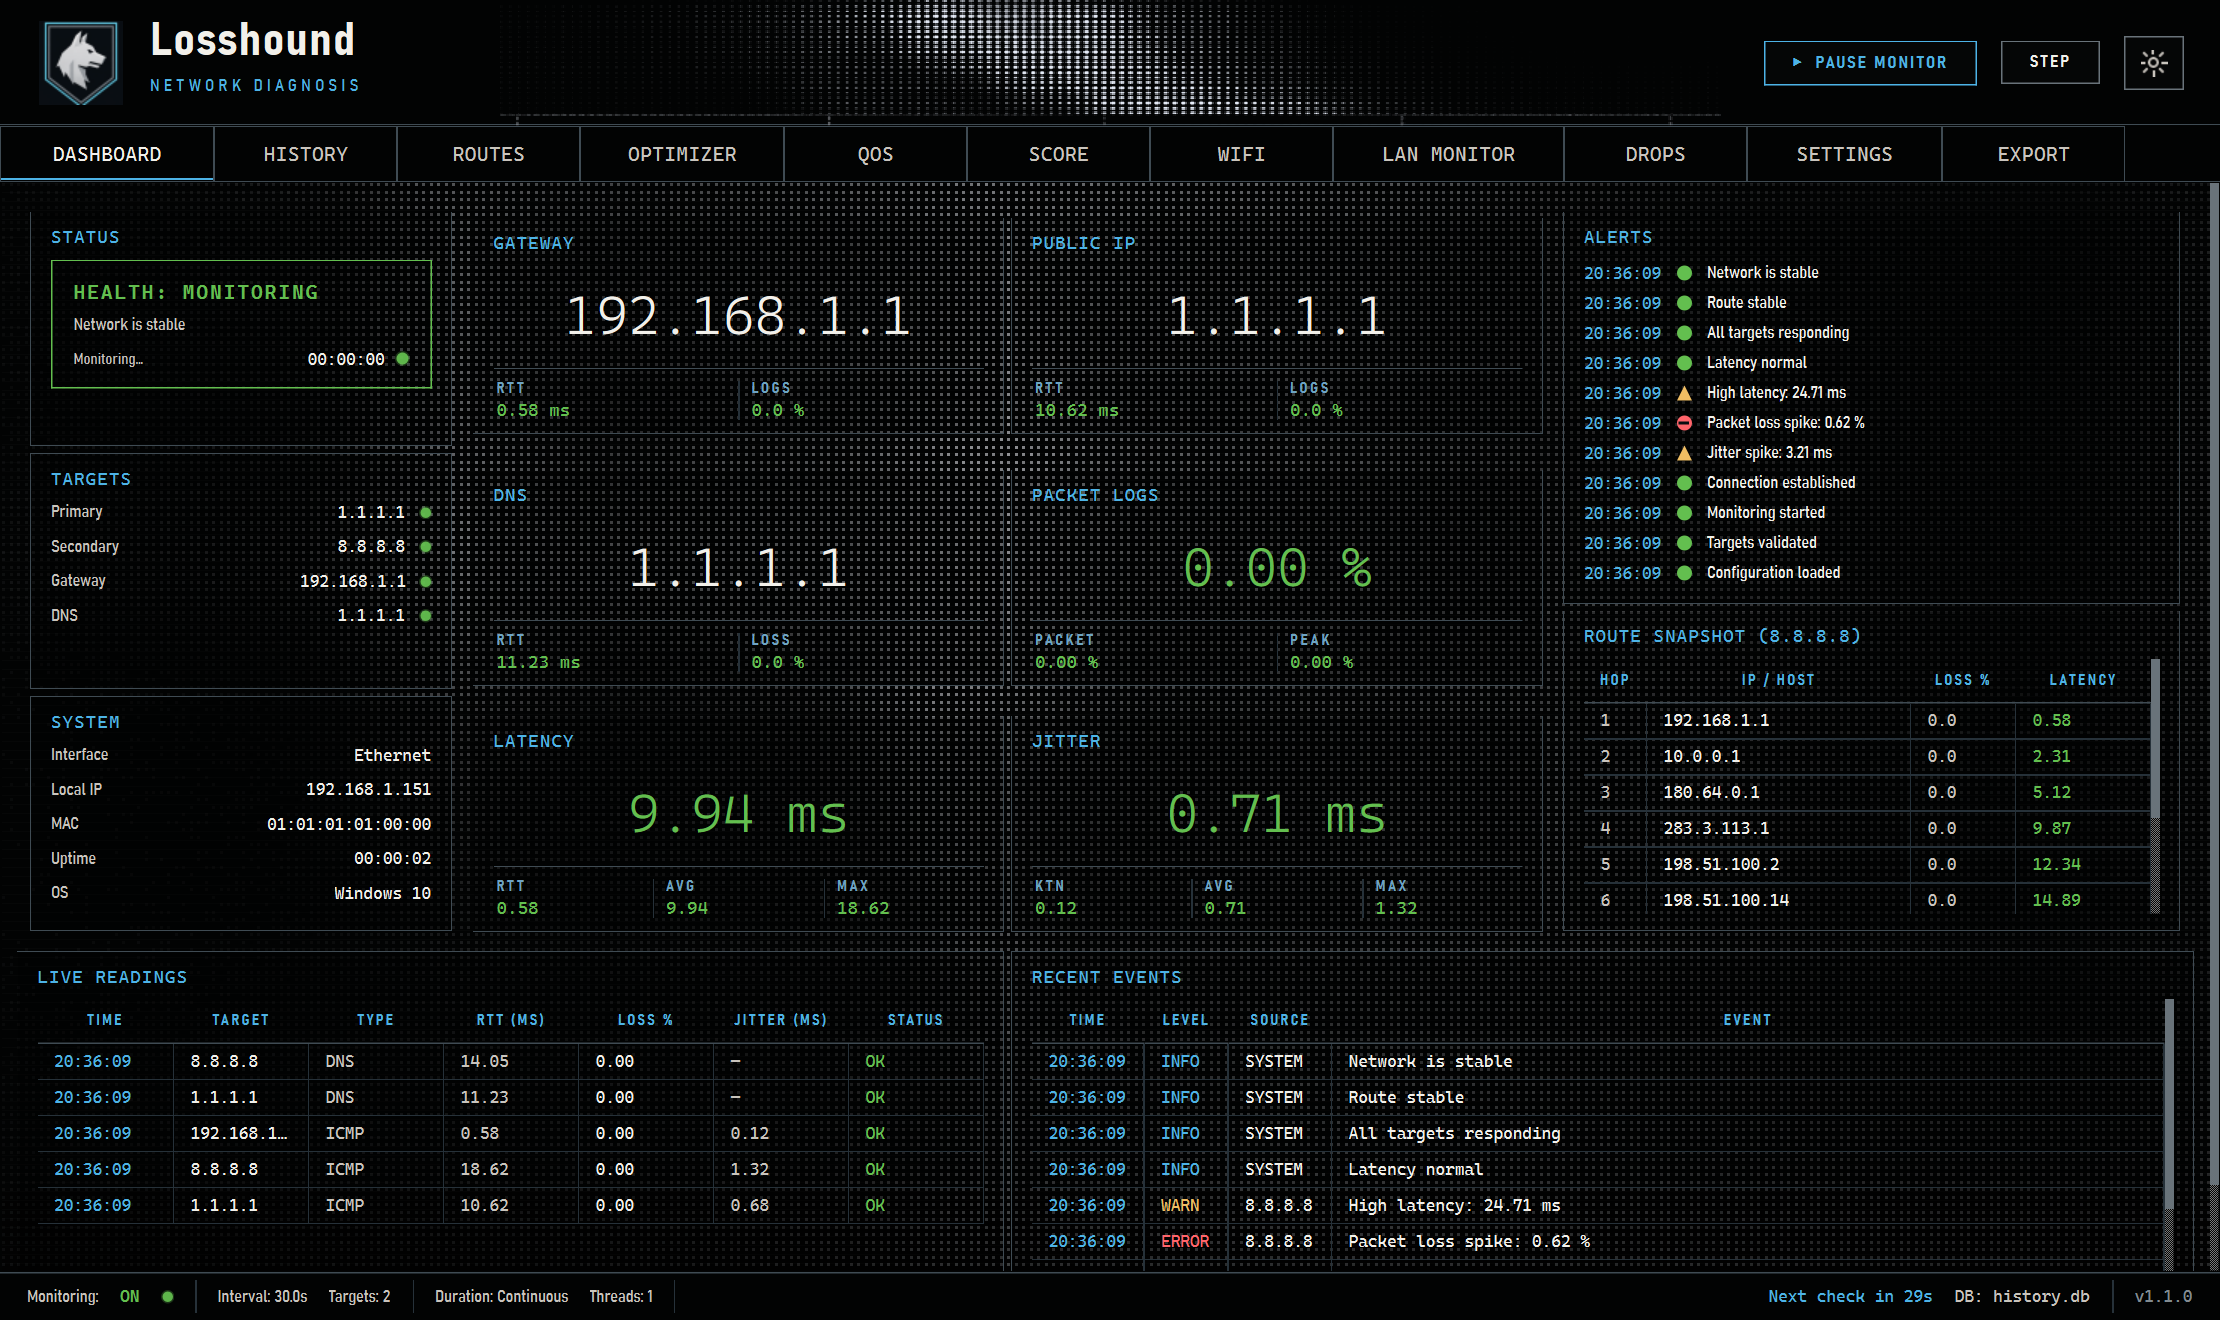
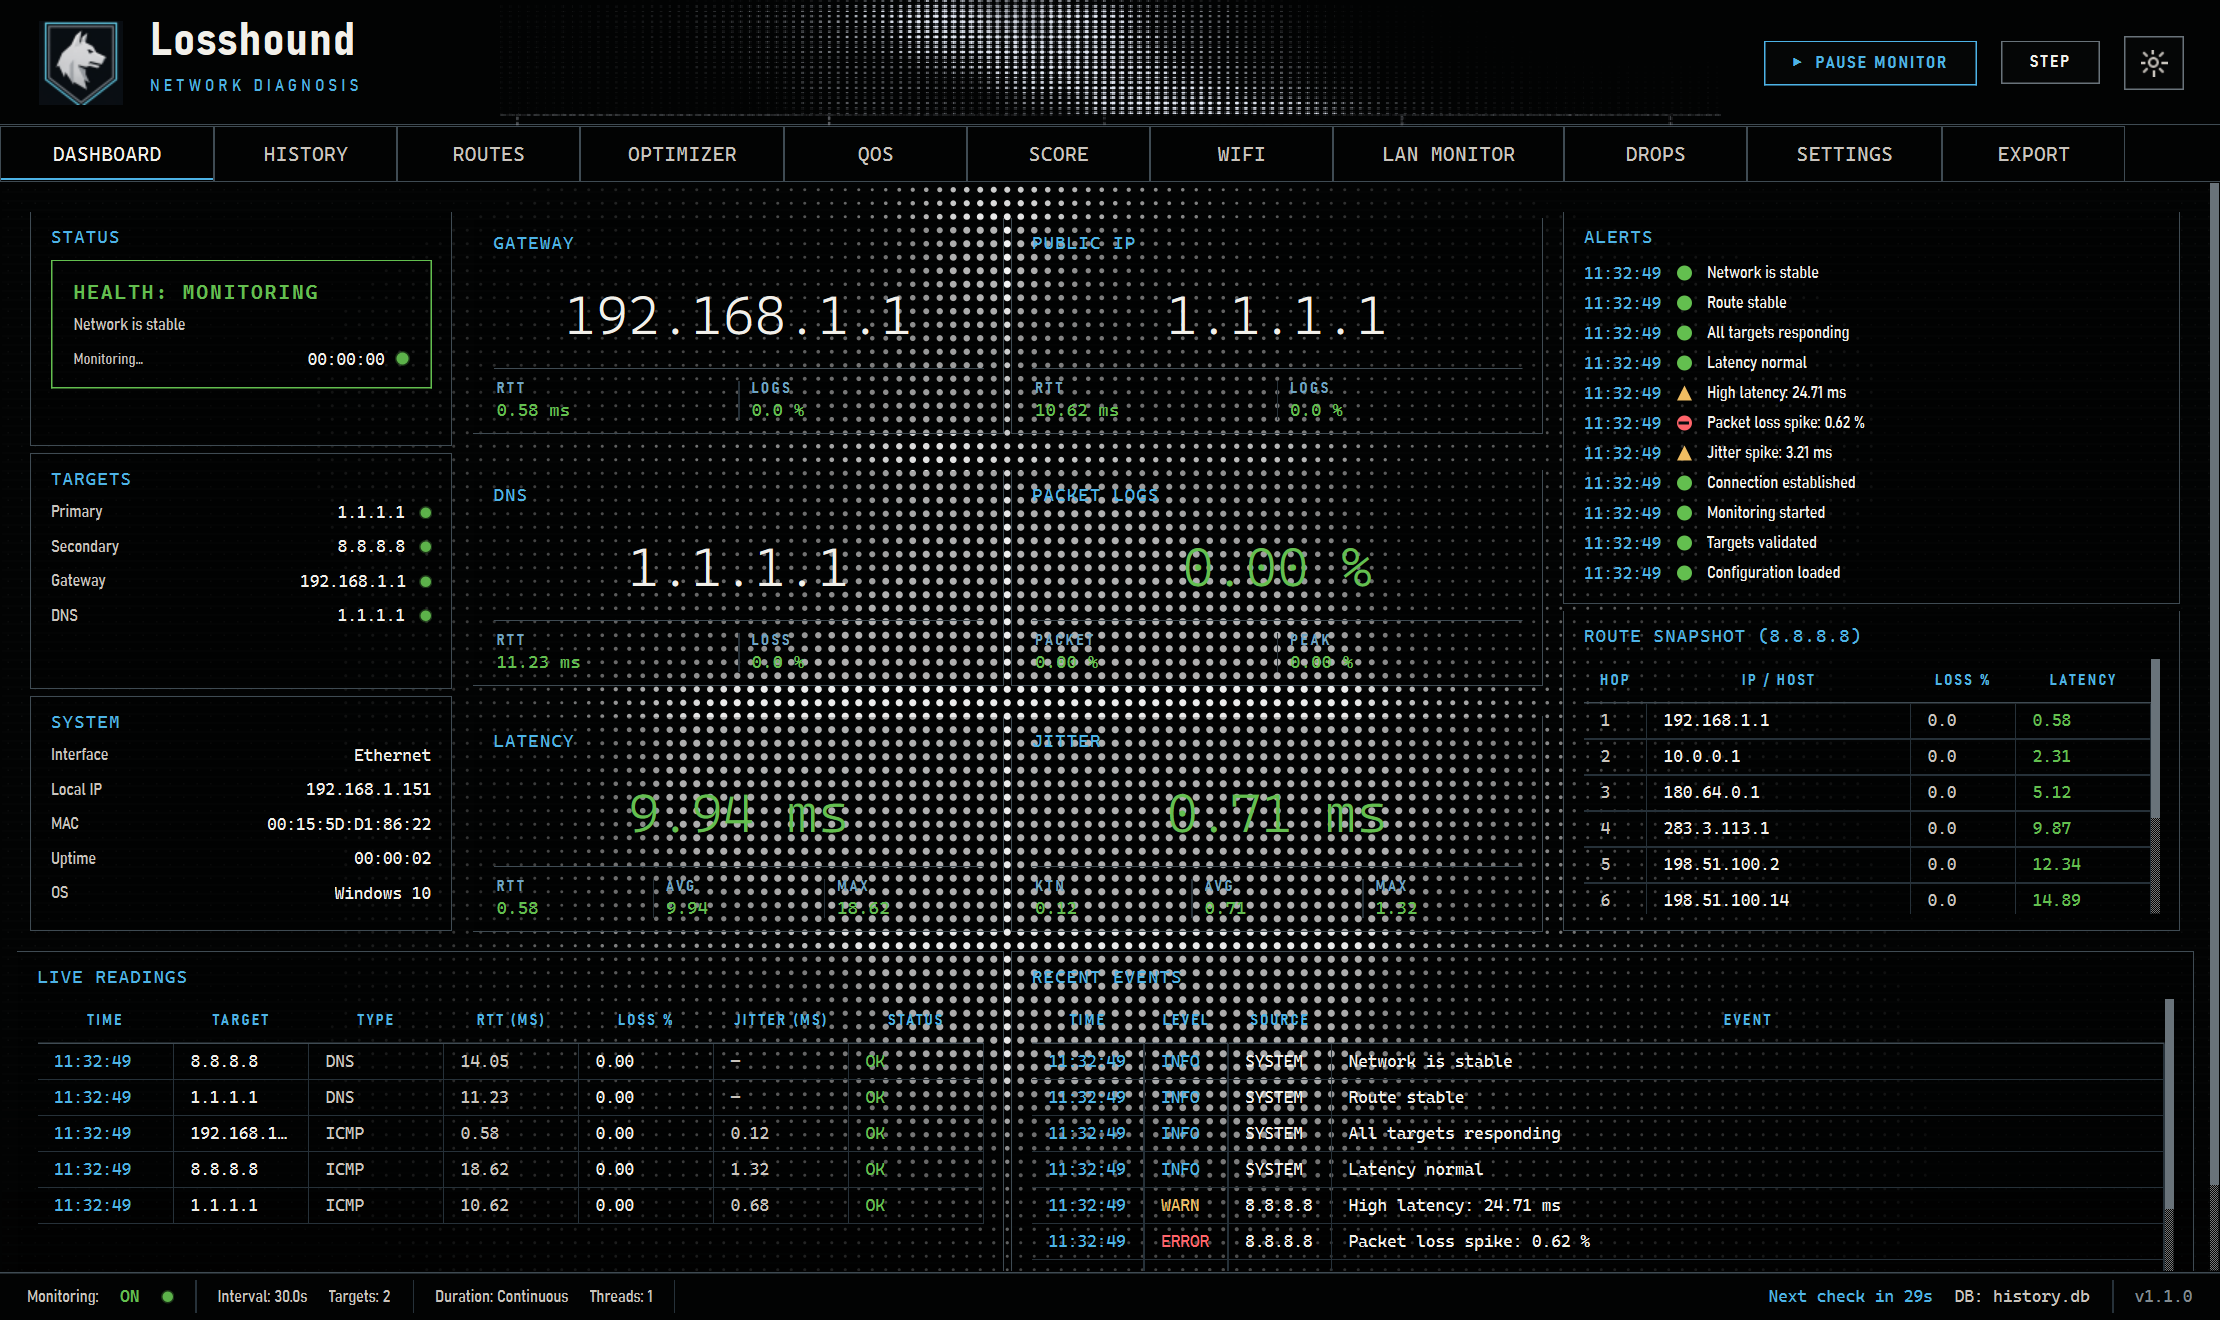
feat(gui): implement interactive monochrome halftone Quantum Atom backdrop

Changed region(s): [[0.0932, 0.1242, 0.9946, 0.9629], [0.9635, 0.2174, 0.9946, 0.5902], [0.1243, 0.6212, 0.1554, 0.6523]]

diff --git a/src/losshound/gui/painted.py b/src/losshound/gui/painted.py
@@ -7,6 +7,8 @@ QSS can express.
 """
 from __future__ import annotations
 
+import math
+import time
 from collections import deque
 from typing import Deque, Iterable, Optional
 
@@ -19,10 +21,12 @@ from PySide6.QtCore import (
     QSize,
     Qt,
     Signal,
+    QTimer,
 )
 from PySide6.QtGui import (
     QBrush,
     QColor,
+    QCursor,
     QFont,
     QFontMetrics,
     QLinearGradient,
@@ -58,34 +62,218 @@ from losshound.gui.palette import (
 
 
 class TexturedSurface(QWidget):
-    """A QWidget that paints the dark window fill + continuous dotted texture.
+    """An animated, interactive QWidget that paints a dynamic halftone Quantum Atom backdrop.
 
     Used as the dashboard content background so dots run unbroken across
-    panel boundaries instead of resetting per cell. Panels stacked on top
-    contribute only their borders and titles.
+    panel boundaries. Responsive to mouse movement and moves at a smooth 30 FPS.
     """
 
     def __init__(self, parent: Optional[QWidget] = None):
         super().__init__(parent)
         self.setAttribute(Qt.WidgetAttribute.WA_StyledBackground, False)
         self.setAutoFillBackground(False)
+        self.setMouseTracking(True)
+
+        self._start_time = time.time()
+        self._mouse_x = 0
+        self._mouse_y = 0
+        self._mouse_target_x = 0
+        self._mouse_target_y = 0
+        self._mouse_hover = False
+
+        # 30 FPS update timer
+        self._timer = QTimer(self)
+        self._timer.setInterval(33)
+        self._timer.timeout.connect(self.update_animation)
+        self._timer.start()
+
+    def update_animation(self) -> None:
+        # Resolve cursor position relative to this widget, ignoring child intercepts
+        local_pos = self.mapFromGlobal(QCursor.pos())
+        w = self.width()
+        h = self.height()
+        
+        if self.rect().contains(local_pos):
+            self._mouse_hover = True
+            self._mouse_x = local_pos.x()
+            self._mouse_y = local_pos.y()
+        else:
+            self._mouse_hover = False
+
+        # Soft mouse interpolation
+        if self._mouse_hover:
+            self._mouse_target_x += (self._mouse_x - self._mouse_target_x) * 0.15
+            self._mouse_target_y += (self._mouse_y - self._mouse_target_y) * 0.15
+        else:
+            # Gentle floating idle movement
+            t = (time.time() - self._start_time) * 0.8
+            self._mouse_target_x = w / 2.0 + math.cos(t * 0.8) * (w / 3.0)
+            self._mouse_target_y = h / 2.0 + math.sin(t * 0.5) * (h / 4.0)
+
+        self.update()
 
     def paintEvent(self, event):  # type: ignore[override]
         painter = QPainter(self)
-        painter.setRenderHint(QPainter.RenderHint.Antialiasing, False)
+        painter.setRenderHint(QPainter.RenderHint.Antialiasing, True)
         rect = self.rect()
         painter.fillRect(rect, qc("bg_window"))
 
-        painter.drawPixmap(0, 0, flowing_dot_field(rect.width(), rect.height()))
+        w = rect.width()
+        h = rect.height()
+        if w < 10 or h < 10:
+            return
 
+        max_dim = max(w, h)
+        centerX = w / 2.0
+        centerY = h / 2.0
+        t_val = (time.time() - self._start_time) * 0.8
+
+        # Halftone grid parameters
+        cell = 9
+        dot_size = 2.4
+
+        try:
+            import numpy as np
+            # Vectorized coordinate computation for maximum performance
+            xs = np.arange(cell / 2.0, w, cell)
+            ys = np.arange(cell / 2.0, h, cell)
+            X, Y = np.meshgrid(xs, ys)
+
+            DX = X - centerX
+            DY = Y - centerY
+            D = np.sqrt(DX*DX + DY*DY)
+
+            # Central nucleus glow
+            nucleus_radius = max_dim * 0.08
+            N_GLOW = np.exp(-D / nucleus_radius) * 0.95
+
+            # Orbital loops (3 distinct angled ellipses)
+            ORBIT_PROXIMITY = np.zeros_like(D)
+            ELECTRON_PROXIMITY = np.zeros_like(D)
+
+            majorAxis = max_dim * 0.28
+            minorAxis = max_dim * 0.095
+
+            orbits = [
+                {"angle": math.pi / 6.0, "speedMult": 1.2, "index": 0},
+                {"angle": -math.pi / 6.0, "speedMult": 0.95, "index": 1},
+                {"angle": math.pi / 2.0, "speedMult": 1.5, "index": 2}
+            ]
+
+            for orbit in orbits:
+                cosA = math.cos(orbit["angle"])
+                sinA = math.sin(orbit["angle"])
+
+                RX = DX * cosA + DY * sinA
+                RY = -DX * sinA + DY * cosA
+
+                radialFactor = np.sqrt((RX/majorAxis)**2 + (RY/minorAxis)**2)
+                proximity = np.exp(-((radialFactor - 1.0)**2) / (0.12 + math.sin(t_val + orbit["index"]) * 0.04))
+
+                # Electron trace
+                orbitTime = t_val * orbit["speedMult"]
+                eX = math.cos(orbitTime) * majorAxis
+                eY = math.sin(orbitTime) * minorAxis
+
+                electronPx = eX * cosA - eY * sinA + centerX
+                electronPy = eX * sinA + eY * cosA + centerY
+
+                EDx = X - electronPx
+                EDy = Y - electronPy
+                distToElectron = np.sqrt(EDx*EDx + EDy*EDy)
+                electronHalo = np.exp(-distToElectron / (max_dim * 0.075)) * 0.7
+
+                ORBIT_PROXIMITY += proximity * 0.15
+                ELECTRON_PROXIMITY += electronHalo
+
+            # Mouse gravity trail
+            mDx = X - self._mouse_target_x
+            mDy = Y - self._mouse_target_y
+            distToMouse = np.sqrt(mDx*mDx + mDy*mDy)
+            mouseGlow = np.exp(-distToMouse / (max_dim * 0.18)) * 0.28
+
+            # Calculate individual contributions to guide colors
+            blue_weight = N_GLOW * 1.1 + ORBIT_PROXIMITY
+            green_weight = ELECTRON_PROXIMITY
+            mouse_weight = mouseGlow
+
+            STRENGTH = blue_weight + green_weight + mouse_weight
+            STRENGTH = (STRENGTH - 0.5) * 1.35 + 0.5 * 1.1
+            INTENSITY = np.clip(STRENGTH, 0.0, 1.0)
+
+            # Flatten coordinates and weights for iteration
+            flat_x = X.ravel()
+            flat_y = Y.ravel()
+            flat_intensity = INTENSITY.ravel()
+            flat_blue = blue_weight.ravel()
+            flat_green = green_weight.ravel()
+            flat_mouse = mouse_weight.ravel()
+
+            for idx in range(len(flat_x)):
+                intensity = flat_intensity[idx]
+                px = flat_x[idx]
+                py = flat_y[idx]
+
+                if intensity <= 0.005:
+                    # Render standard base dot pattern
+                    painter.setPen(Qt.PenStyle.NoPen)
+                    painter.setBrush(QColor(228, 234, 244, 12))
+                    painter.drawRect(QRectF(px - 0.5, py - 0.5, 1.0, 1.0))
+                else:
+                    # Clean monochrome black & white halftone style (white dots with varying alpha)
+                    alpha = int(18 + 225 * intensity)
+                    painter.setPen(Qt.PenStyle.NoPen)
+                    painter.setBrush(QColor(255, 255, 255, alpha))
+
+                    radius = max(1.0, intensity * dot_size)
+                    painter.drawEllipse(QPointF(px, py), radius, radius)
+
+        except Exception:
+            # Safe non-numpy fallback with a larger cell size to protect framerate
+            fallback_cell = 14
+            for px in range(int(fallback_cell / 2), w, fallback_cell):
+                for py in range(int(fallback_cell / 2), h, fallback_cell):
+                    dx = px - centerX
+                    dy = py - centerY
+                    d = math.sqrt(dx*dx + dy*dy)
+
+                    nucleus_radius = max_dim * 0.08
+                    nGlow = math.exp(-d / nucleus_radius) * 0.95 if d > 0 else 0.95
+
+                    rx = dx
+                    ry = dy
+                    radialFactor = math.sqrt((rx / (max_dim * 0.28))**2 + (ry / (max_dim * 0.095))**2)
+                    proximity = math.exp(-((radialFactor - 1.0)**2) / 0.12)
+
+                    mDx = px - self._mouse_target_x
+                    mDy = py - self._mouse_target_y
+                    distToMouse = math.sqrt(mDx*mDx + mDy*mDy)
+                    mouseGlow = math.exp(-distToMouse / (max_dim * 0.18)) * 0.28
+
+                    strength = nGlow * 1.1 + proximity * 0.15 * 0.58 + mouseGlow
+                    strength = (strength - 0.5) * 1.35 + 0.5 * 1.1
+                    intensity = max(0.0, min(1.0, strength))
+
+                    if intensity <= 0.01:
+                        painter.setPen(Qt.PenStyle.NoPen)
+                        painter.setBrush(QColor(228, 234, 244, 12))
+                        painter.drawRect(QRectF(px - 0.5, py - 0.5, 1.0, 1.0))
+                    else:
+                        alpha = int(18 + 225 * intensity)
+                        painter.setPen(Qt.PenStyle.NoPen)
+                        painter.setBrush(QColor(255, 255, 255, alpha))
+                        radius = max(1.0, intensity * 2.4)
+                        painter.drawEllipse(QPointF(px, py), radius, radius)
+
+        # Draw scanning lines and vignette overlay on top
         scanline = QPen(QColor(255, 255, 255, 4))
         scanline.setWidth(1)
         scanline.setCosmetic(True)
         painter.setPen(scanline)
-        for y in range(0, rect.height(), 6):
-            painter.drawLine(0, y, rect.width(), y)
+        for y in range(0, h, 6):
+            painter.drawLine(0, y, w, y)
 
-        gradient = QLinearGradient(0, 0, 0, rect.height())
+        gradient = QLinearGradient(0, 0, 0, h)
         gradient.setColorAt(0.0, QColor(0, 0, 0, 0))
         gradient.setColorAt(0.72, QColor(0, 0, 0, 12))
         gradient.setColorAt(1.0, QColor(0, 0, 0, 76))